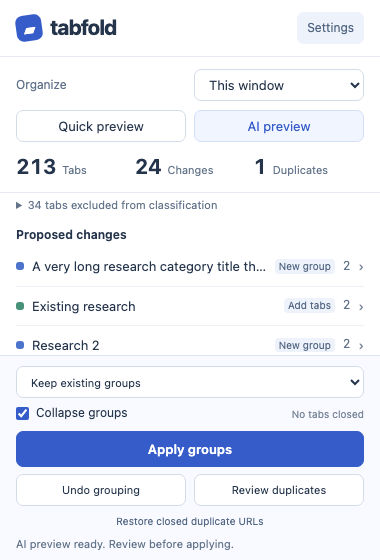
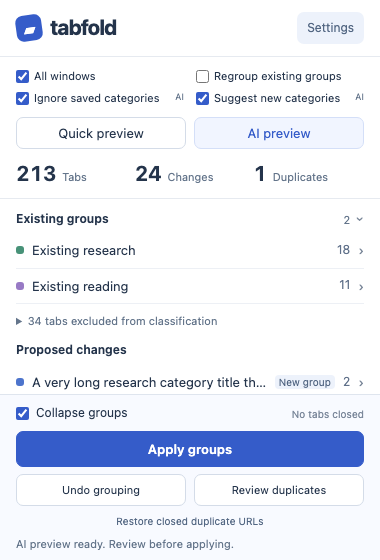
Expose popup checkboxes and independent AI category preferences

diff --git a/extension/popup.js b/extension/popup.js
@@ -3,7 +3,7 @@ import { t, initI18n, applyI18n } from './i18n.js';
 const $ = id => document.getElementById(id);
 let plan, suggestions = [], busy = false, undoAvailable = false;
 let provider = getProvider();
-let preferences = {suggestNew:true};
+let preferences = {suggestNew:true,ignoreCategories:false};
 const colors = {grey:'#8190a5',blue:'#4d74cc',red:'#cf6977',yellow:'#c09c39',green:'#479278',pink:'#c375a3',purple:'#987ac5',cyan:'#469dab',orange:'#ce8c52'};
 function status(message,error=false){$('status').textContent=message;$('status').classList.toggle('error',error);}
 async function send(message){const result=await chrome.runtime.sendMessage(message);if(!result?.ok)throw new Error(result?.error||t('No response. Reopen the extension.'));return result;}
@@ -27,7 +27,10 @@ function render(){
   const existing=plan.existingGroups||[];
   $('existingCount').textContent=existing.length;$('existingGroups').replaceChildren(...existing.map(group=>groupRow(group,true)));$('noExisting').hidden=!!existing.length;
   const regroup=plan.groupingMode==='regroup';
-  $('groupingMode').value=regroup?'regroup':'preserve';
+  $('regroup').checked=regroup;
+  preferences=plan.preferences||preferences;
+  $('ignoreCategories').checked=!!preferences.ignoreCategories;
+  $('suggestNew').checked=preferences.suggestNew!==false;
   $('groupingModeNotice').hidden=!regroup;
   $('groupingModeNotice').textContent=t(regroup?'Regroup mode: existing groups may be rebuilt.':'Keep existing groups');
   $('groupingModeNotice').classList.toggle('warning',regroup);
@@ -43,17 +46,25 @@ function renderSuggestions(){
   $('suggestionsSection').hidden=!suggestions.length;$('suggestionRows').replaceChildren();
   suggestions.forEach((suggestion,index)=>{const row=document.createElement('div');row.className='suggestion-row';const name=document.createElement('input');name.value=suggestion.title;name.maxLength=40;name.setAttribute('aria-label',t('Suggested category name'));const description=document.createElement('p');description.textContent=t('{count} matching tabs',{count:suggestion.tabIds.length});const button=document.createElement('button');button.textContent=t('Add category to preview');button.onclick=()=>run(async()=>{const result=await send({type:'acceptSuggestion',index,title:name.value,plan});plan=result.plan;suggestions=result.suggestions;render();status(t('Category added. Review and apply the groups.'));});row.append(name,description,tabList(suggestion.tabs||[]),button);$('suggestionRows').append(row);});
 }
-async function refresh(ai=false){const window=await chrome.windows.getCurrent();const result=await send({type:'preview',windowId:window.id,provider:provider.id,allWindows:$('scope').value==='all',ai,suggestNew:preferences.suggestNew});plan=result.plan;suggestions=result.suggestions||[];undoAvailable=result.undoAvailable;render();if(result.suggestionError)status(t('Groups are ready, but category suggestions failed.')+' '+result.suggestionError,true);return result;}
-$('groupingMode').onchange=()=>run(async()=>{
-  const previous=plan?.groupingMode || 'preserve';
-  try{await send({type:'setGroupingMode',groupingMode:$('groupingMode').value});}
-  catch(error){$('groupingMode').value=previous;throw error;}
-  plan=undefined;suggestions=[];controls();
-  status(t('Reading your tabs…'));await refresh();
-  status(t('Preview ready. Your tabs have not changed.'));
+async function refresh(ai=false){const window=await chrome.windows.getCurrent();const result=await send({type:'preview',windowId:window.id,provider:provider.id,allWindows:$('allWindows').checked,ai});plan=result.plan;suggestions=result.suggestions||[];undoAvailable=result.undoAvailable;render();if(result.suggestionError)status(t('Groups are ready, but category suggestions failed.')+' '+result.suggestionError,true);return result;}
+async function refreshAfterSetting(){
+  plan=undefined;suggestions=[];$('groups').replaceChildren();renderSuggestions();controls();
+  status(t('Reading your tabs…'));await refresh();status(t('Preview ready. Your tabs have not changed.'));
+}
+$('regroup').onchange=()=>run(async()=>{
+  const previous=plan?.groupingMode==='regroup';
+  try{await send({type:'setGroupingMode',groupingMode:$('regroup').checked?'regroup':'preserve'});}
+  catch(error){$('regroup').checked=previous;throw error;}
+  await refreshAfterSetting();
+});
+for(const key of ['ignoreCategories','suggestNew'])$(key).onchange=()=>run(async()=>{
+  const previous=preferences[key];
+  try{const result=await send({type:'setPreferences',preferences:{[key]:$(key).checked}});preferences=result.preferences;}
+  catch(error){$(key).checked=previous;throw error;}
+  await refreshAfterSetting();
 });
 $('settings').onclick=()=>chrome.runtime.openOptionsPage();
-$('refresh').onclick=()=>run(async()=>{status(t('Reading your tabs…'));await refresh();status(t('Preview ready. Your tabs have not changed.'));});$('scope').onchange=$('refresh').onclick;
+$('refresh').onclick=()=>run(async()=>{status(t('Reading your tabs…'));await refresh();status(t('Preview ready. Your tabs have not changed.'));});$('allWindows').onchange=()=>run(refreshAfterSetting);
 $('aiPreview').onclick=async()=>{if(busy)return;try{const granted=await chrome.permissions.request({origins:[provider.origin]});if(!granted){status(t('Allow {provider} access to use AI preview.',{provider:provider.name}),true);return;}await run(async()=>{status(t('AI is sorting your tabs…'));const result=await refresh(true);if(!result.suggestionError)status(t('AI preview ready. Review before applying.'));});}catch(error){status(error.message,true);}};
 $('apply').onclick=()=>run(async()=>{const result=await send({type:'apply',plan,collapse:$('collapse').checked});await refresh();status(result.message);});
 $('undo').onclick=()=>run(async()=>{const result=await send({type:'undo'});await refresh();status(result.message);});

diff --git a/extension/background.js b/extension/background.js
@@ -62,6 +62,7 @@ export class TabfoldBackend {
     const tabOrder=validateTabOrder(await this.read('tabfoldTabOrder','local'));
     const groupingMode=validateGroupingMode(await this.read('tabfoldGroupingMode','local'));
     const regroup=groupingMode==='regroup';
+    const preferences=await this.preferences();
     const initial = buildPreview(tabs, {...request,tabOrder,existingGroups,groupingMode});
     const selectedEligible = tabs.filter(tab => (request.allWindows || request.windowId === undefined || tab.windowId === request.windowId) && isEligible(tab,{regroup}));
     const provider = getProvider(request.provider ?? await this.provider());
@@ -70,7 +71,7 @@ export class TabfoldBackend {
     if (request.ai) {
       if (!key) return message(false, t('Save your API key before using AI classification.'));
       try {
-        classifications = await classifyTabs(selectedEligible, key, fetch, {provider:provider.id, categories: await this.categories(), existingGroups:regroup ? [] : initial.existingGroups, suggestNew: request.suggestNew !== false});
+        classifications = await classifyTabs(selectedEligible, key, fetch, {provider:provider.id, categories: await this.categories(), existingGroups:regroup ? [] : initial.existingGroups, suggestNew:preferences.suggestNew, ignoreCategories:preferences.ignoreCategories});
       } catch (error) {
         return message(false, error?.message || t('Unable to complete AI classification.'));
       }
@@ -81,9 +82,23 @@ export class TabfoldBackend {
       }
     }
     const plan = classifications ? buildPreview(tabs, {...request,tabOrder,existingGroups,groupingMode}, classifications) : initial;
+    plan.preferences=preferences;
     await this.write(PREVIEW_KEY, { plan, suggestions: classifications?.suggestions || [], tabs: tabs.filter(tab=>isEligible(tab,{regroup})).map(({id,title,url,windowId,index,lastAccessed,groupId})=>({id,title,url,windowId,index,lastAccessed,groupId})), categories: await this.categories() });
     const undo = await this.read(UNDO_KEY);
     return { ok: true, plan, undoAvailable: Boolean(undo?.groups?.length), keyConfigured: Boolean(key), suggestions: classifications?.suggestions || [], suggestionError: classifications?.suggestionError || '', otherCount: classifications?.otherCount || 0 };
+  }
+
+  async preferences() {
+    const saved=await this.read('tabfoldPreferences','local');
+    return {suggestNew:typeof saved?.suggestNew==='boolean' ? saved.suggestNew : true,ignoreCategories:typeof saved?.ignoreCategories==='boolean' ? saved.ignoreCategories : false};
+  }
+
+  async setPreferences(changes) {
+    if(!changes || typeof changes!=='object' || Array.isArray(changes) || Object.entries(changes).some(([key,value])=>!['suggestNew','ignoreCategories'].includes(key) || typeof value!=='boolean')) throw new Error(t('Invalid AI classification options.'));
+    const preferences={...await this.preferences(),...changes};
+    await this.write('tabfoldPreferences',preferences,'local');
+    await this.remove(PREVIEW_KEY);
+    return {ok:true,preferences};
   }
 
   async categories() {
@@ -190,7 +205,7 @@ export class TabfoldBackend {
 
   async matchesSavedPreview(plan) {
     const saved = await this.read(PREVIEW_KEY);
-    return Boolean(saved?.plan && stableJson(saved.plan) === stableJson(plan));
+    return Boolean(saved?.plan && stableJson(saved.plan) === stableJson(plan) && stableJson(plan.preferences) === stableJson(await this.preferences()));
   }
 
   async revalidateGroup(group, regroup = false) {
@@ -414,7 +429,8 @@ export class TabfoldBackend {
   async handle(request = {}) {
     try {
       await initI18n();
-      if (request.type === 'getSettings') { const provider=getProvider(await this.provider()); return { ok: true, provider:provider.id, groupingMode:validateGroupingMode(await this.read('tabfoldGroupingMode','local')), tabOrder:validateTabOrder(await this.read('tabfoldTabOrder','local')), keyConfigured:Boolean(await this.read(provider.keyName)), categories:await this.categories(), preferences:await this.read('tabfoldPreferences','local') || {suggestNew:true} }; }
+      if (request.type === 'getSettings') { const provider=getProvider(await this.provider()); return { ok: true, provider:provider.id, groupingMode:validateGroupingMode(await this.read('tabfoldGroupingMode','local')), tabOrder:validateTabOrder(await this.read('tabfoldTabOrder','local')), keyConfigured:Boolean(await this.read(provider.keyName)), categories:await this.categories(), preferences:await this.preferences() }; }
+      if(request.type==='setPreferences') return await this.mutate(()=>this.setPreferences(request.preferences));
       if(request.type==='setGroupingMode') return await this.mutate(async()=>{const groupingMode=validateGroupingMode(request.groupingMode);await this.write('tabfoldGroupingMode',groupingMode,'local');await this.remove(PREVIEW_KEY);return {ok:true,groupingMode};});
       if (request.type === 'setTabOrder') return await this.mutate(async()=>{const tabOrder=validateTabOrder(request.tabOrder);await this.write('tabfoldTabOrder',tabOrder,'local');await this.remove(PREVIEW_KEY);return {ok:true,tabOrder};});
       if (request.type === 'setProvider') return await this.mutate(() => this.setProvider(request.provider));

diff --git a/extension/popup.html b/extension/popup.html
@@ -2,8 +2,8 @@
 <html lang="en"><head><meta charset="utf-8"><meta name="viewport" content="width=device-width,initial-scale=1"><title>Tabfold</title><link rel="stylesheet" href="popup.css"></head>
 <body>
 <header><span class="brand"><span class="mark" aria-hidden="true">▰</span>tabfold</span><button id="settings" class="quiet" data-i18n="Settings">Settings</button></header>
-<section class="controls"><div class="scope-row"><label for="scope" data-i18n="Organize">Organize</label><select id="scope"><option value="current" data-i18n="This window">This window</option><option value="all" data-i18n="All windows">All windows</option></select></div><div class="preview-actions"><button id="refresh" data-i18n="Quick preview">Quick preview</button><button id="aiPreview" data-i18n="AI preview">AI preview</button></div></section>
+<section class="controls"><div class="quick-options"><label><input id="allWindows" type="checkbox"><span data-i18n="All windows">All windows</span></label><label><input id="regroup" type="checkbox"><span data-i18n="Regroup existing groups">Regroup existing groups</span></label><label data-i18n-title="Skip saved AI categories without deleting them." title="Skip saved AI categories without deleting them."><input id="ignoreCategories" type="checkbox"><span data-i18n="Ignore saved categories">Ignore saved categories</span><small>AI</small></label><label><input id="suggestNew" type="checkbox" checked><span data-i18n="Suggest new categories">Suggest new categories</span><small>AI</small></label></div><div class="preview-actions"><button id="refresh" data-i18n="Quick preview">Quick preview</button><button id="aiPreview" data-i18n="AI preview">AI preview</button></div></section>
 <section class="stats"><div><strong id="total">—</strong><span data-i18n="Tabs">Tabs</span></div><div><strong id="groupCount">—</strong><span data-i18n="Changes">Changes</span></div><div><strong id="duplicateCount">—</strong><span data-i18n="Duplicates">Duplicates</span></div></section>
 <main id="results"><details id="existingSection" class="existing-section" open><summary class="section-title"><h2 data-i18n="Existing groups">Existing groups</h2><span id="existingCount"></span></summary><div id="existingGroups"></div><p id="noExisting" data-i18n="No existing groups in this scope.">No existing groups in this scope.</p></details><details id="excluded"><summary id="excludedSummary"></summary><p id="groupedReason"></p><p id="otherProtectedReason"></p></details><div class="section-title"><h1 data-i18n="Proposed changes">Proposed changes</h1></div><div id="groups"></div><p id="empty" hidden data-i18n="No groups to create. Try AI preview or another window.">No groups to create. Try AI preview or another window.</p><section id="suggestionsSection" hidden><h2 data-i18n="Suggested categories">Suggested categories</h2><div id="suggestionRows"></div></section><section id="duplicateReview" hidden><h2 data-i18n="Review duplicates">Review duplicates</h2><p data-i18n="These tabs have identical addresses. Closing them loses unsaved edits.">These tabs have identical addresses. Closing them loses unsaved edits.</p><ul id="duplicateList"></ul><button id="dedupe" class="danger" data-i18n="Close these duplicates">Close these duplicates</button></section></main>
-<footer><select id="groupingMode" data-i18n-label="Grouping mode" aria-label="Grouping mode"><option value="preserve" data-i18n="Keep existing groups">Keep existing groups</option><option value="regroup" data-i18n="Regroup all eligible tabs">Regroup all eligible tabs</option></select><p id="groupingModeNotice" class="mode-notice" role="note"></p><label class="collapse"><input id="collapse" type="checkbox" checked><span data-i18n="Collapse groups">Collapse groups</span><span class="hint" data-i18n="No tabs closed">No tabs closed</span></label><button id="apply" class="primary" disabled data-i18n="Apply groups">Apply groups</button><div class="secondary"><button id="undo" disabled data-i18n="Undo grouping">Undo grouping</button><button id="duplicates" disabled data-i18n="Review duplicates">Review duplicates</button></div><button id="restore" class="quiet restore" data-i18n="Restore closed duplicate URLs">Restore closed duplicate URLs</button><p id="status" role="status" aria-live="polite" data-i18n="Reading your tabs…">Reading your tabs…</p></footer>
+<footer><p id="groupingModeNotice" class="mode-notice" role="note"></p><label class="collapse"><input id="collapse" type="checkbox" checked><span data-i18n="Collapse groups">Collapse groups</span><span class="hint" data-i18n="No tabs closed">No tabs closed</span></label><button id="apply" class="primary" disabled data-i18n="Apply groups">Apply groups</button><div class="secondary"><button id="undo" disabled data-i18n="Undo grouping">Undo grouping</button><button id="duplicates" disabled data-i18n="Review duplicates">Review duplicates</button></div><button id="restore" class="quiet restore" data-i18n="Restore closed duplicate URLs">Restore closed duplicate URLs</button><p id="status" role="status" aria-live="polite" data-i18n="Reading your tabs…">Reading your tabs…</p></footer>
 <script type="module" src="popup.js"></script></body></html>

diff --git a/tests/background.test.js b/tests/background.test.js
@@ -172,14 +172,14 @@ test('settings reports key presence without exposing credentials and preserves c
   const defaults = await backend.handle({type:'getSettings'});
   assert.equal(defaults.ok, true);
   assert.equal(defaults.keyConfigured, false);
-  assert.deepEqual(defaults.preferences, {suggestNew:true});
+  assert.deepEqual(defaults.preferences, {suggestNew:true,ignoreCategories:false});
   assert.equal(defaults.categories[0].title, 'Development');
   const categories = [{title:'내 논문', criteria:'Research papers', color:'green'}];
   await backend.handle({type:'setCategories', categories});
   await backend.handle({type:'setKey', key:'private-test-key'});
   await backend.write('tabfoldPreferences', {suggestNew:false}, 'local');
   const configured = await backend.handle({type:'getSettings'});
-  assert.deepEqual(configured, {ok:true, provider:'openrouter', groupingMode:'preserve', tabOrder:'current', keyConfigured:true, categories, preferences:{suggestNew:false}});
+  assert.deepEqual(configured, {ok:true, provider:'openrouter', groupingMode:'preserve', tabOrder:'current', keyConfigured:true, categories, preferences:{suggestNew:false,ignoreCategories:false}});
   assert.equal(JSON.stringify(configured).includes('private-test-key'), false);
 });
 
@@ -318,4 +318,25 @@ test('regroup undo does not recreate an original group the user removed around p
  assert.equal(chrome._tabs.get(1).groupId,destination);
  assert.equal(chrome._tabs.get(2).groupId,destination);
  assert.equal(chrome._tabs.get(3).groupId,-1);
+});
+
+test('preferences merge strict booleans, invalidate previews, and protect against late preview races',async()=>{
+ const {backend}=regroupFixture();
+ assert.deepEqual(await backend.preferences(),{suggestNew:true,ignoreCategories:false});
+ const previous=await backend.handle({type:'preview',suggestNew:false});assert.equal(previous.plan.preferences.suggestNew,true);
+ assert.equal((await backend.handle({type:'setPreferences',preferences:{ignoreCategories:true}})).ok,true);
+ assert.deepEqual(await backend.preferences(),{suggestNew:true,ignoreCategories:true});
+ assert.equal((await backend.handle({type:'apply',plan:previous.plan})).ok,false);
+ // A late request may rewrite its old plan after settings changed; matching the stored plan is insufficient.
+ await backend.write('tabfoldPreview',{plan:previous.plan});assert.equal(await backend.matchesSavedPreview(previous.plan),false);
+ await backend.handle({type:'setPreferences',preferences:{suggestNew:false}});assert.deepEqual(await backend.preferences(),{suggestNew:false,ignoreCategories:true});
+ for(const preferences of [{ignoreCategories:1},{unknown:true},[],null]) assert.equal((await backend.handle({type:'setPreferences',preferences})).ok,false);
+});
+
+test('AI preview uses saved preferences and keeps saved categories untouched',async()=>{
+ const chrome=mockChrome([{id:1,windowId:1,title:'Atlas',url:'https://atlas.example/a'},{id:2,windowId:1,title:'Atlas',url:'https://atlas.example/b'}]);
+ const backend=new TabfoldBackend(chrome);const before=await backend.categories();
+ await backend.handle({type:'setKey',key:'test'});await backend.handle({type:'setPreferences',preferences:{ignoreCategories:true,suggestNew:false}});
+ const originalFetch=globalThis.fetch;let calls=0;globalThis.fetch=async()=>{calls++;throw new Error('unexpected network call');};
+ try {const result=await backend.handle({type:'preview',ai:true,suggestNew:true});assert.equal(result.ok,true);assert.equal(calls,0);assert.deepEqual(result.plan.preferences,{ignoreCategories:true,suggestNew:false});assert.deepEqual(await backend.categories(),before);}finally{globalThis.fetch=originalFetch;}
 });

diff --git a/tests/ai.test.js b/tests/ai.test.js
@@ -220,3 +220,23 @@ test('existing groups are primary window-scoped choices with safe representative
   assert.equal(result.get(1).targetGroupId,113);assert.equal(result.get(1).title,existingGroups[13].title);assert.equal(result.get(2).targetGroupId,200);
   assert.doesNotMatch(JSON.stringify(requests),/password|secret=yes|private.example|chrome:\/\/settings/);
 });
+
+test('ignoring saved categories keeps existing choices and skips a pointless Other-only request',async()=>{
+ const input=[{id:1,windowId:1,title:'Atlas migration guide',url:'https://atlas.example/a'},{id:2,windowId:1,title:'Atlas migration guide',url:'https://atlas.example/b'}];
+ const categories=[{title:'Saved category',criteria:'Saved criteria',color:'red'}];
+ let calls=0;
+ const noRequests=async()=>{calls++;throw new Error('unexpected request');};
+ const fallback=await classifyTabs(input,'key',noRequests,{categories,ignoreCategories:true,suggestNew:false});
+ assert.equal(calls,0);assert.equal(fallback.get(1).title,'atlas.example');assert.equal(fallback.otherCount,2);assert.deepEqual(fallback.suggestions,[]);
+ const suggested=await classifyTabs(input,'key',async(_url,options)=>{
+  calls++;const body=JSON.parse(options.body);const choices=Object.keys(body.questions.tab_1.criteria);assert.deepEqual(choices,['candidate_0','other']);
+  return response(Object.fromEntries(input.map(tab=>[`tab_${tab.id}`,{type:'choice',choice:'candidate_0',confidence:.95}])));
+ },{categories,ignoreCategories:true,suggestNew:true});
+ assert.equal(calls,1);assert.equal(suggested.suggestions.length,1);
+ const existing=await classifyTabs(input,'key',async(_url,options)=>{
+  const body=JSON.parse(options.body);assert.deepEqual(Object.keys(body.questions.tab_1.criteria),['group_10','other']);assert.doesNotMatch(options.body,/Saved category|Saved criteria/);
+  return response(Object.fromEntries(input.map(tab=>[`tab_${tab.id}`,{type:'choice',choice:'group_10',confidence:.95}])));
+ },{categories,ignoreCategories:true,existingGroups:[{id:10,windowId:1,title:'Existing',color:'green',tabs:[]}]});
+ assert.equal(existing.get(1).targetGroupId,10);assert.equal(categories[0].title,'Saved category');
+ await assert.rejects(classifyTabs(input,'key',noRequests,{ignoreCategories:'yes'}),/Invalid AI classification options/);
+});

diff --git a/extension/popup.css b/extension/popup.css
@@ -3,4 +3,4 @@
 .existing-section>.section-title{cursor:pointer;list-style:none;padding-bottom:5px}.existing-section>.section-title::-webkit-details-marker{display:none}.existing-section>.section-title:after{content:'›';color:#7a8799}.existing-section[open]>.section-title:after{transform:rotate(90deg)}#existingCount{margin-left:auto;color:#64758b;font-size:11px}.group-action{flex:none;font-size:10px;color:#536783;background:#edf2fb;border-radius:4px;padding:1px 4px;max-width:105px;white-space:normal;line-height:1.25}.group-title{flex:1}.group .count{margin-left:0}#excluded{font-size:11px;color:#64758b;padding:9px 0 3px}#excluded summary{cursor:pointer;line-height:1.4}#excluded p{font-size:11px;margin:5px 0;padding-left:12px}#noExisting{font-size:11px}#existingGroups .group summary{padding:8px 0}@media(prefers-color-scheme:dark){#excluded,#existingCount{color:#b4c2d6}.group-action{background:#2b3d58;color:#c3d3ed}}
 .mode-notice{font-size:10px;line-height:1.3;color:#60718a;margin:0 0 7px}.mode-notice.warning{color:#835515;border-left:3px solid #c48a2b;padding-left:7px}@media(prefers-color-scheme:dark){.mode-notice{color:#b4c2d6}.mode-notice.warning{color:#f0c37b;border-color:#d9a652}}
 
-#groupingMode{width:100%;max-width:none;min-width:0;margin-bottom:7px;font-size:11px}
+.quick-options{display:grid;grid-template-columns:1fr 1fr;gap:8px 12px;margin-bottom:11px}.quick-options label{display:flex;align-items:flex-start;gap:5px;min-width:0;font-size:11px;line-height:1.3;cursor:pointer}.quick-options input{margin:1px 0 0;flex:none}.quick-options small{font-size:9px;line-height:1.4;color:#64758b;margin-left:auto}.quick-options label:has(#regroup:checked){color:#835515}@media(prefers-color-scheme:dark){.quick-options small{color:#b4c2d6}.quick-options label:has(#regroup:checked){color:#f0c37b}}

diff --git a/extension/ai.js b/extension/ai.js
@@ -46,7 +46,8 @@ export function validateCategories(value) {
 function categoryConfig(options) {
   if (!options || typeof options !== 'object' || Array.isArray(options)) throw error(t('Invalid AI classification options.'));
   const custom = Object.hasOwn(options, 'categories') && options.categories !== undefined;
-  const categories = custom ? validateCategories(options.categories) : DEFAULT_CATEGORIES;
+  if (options.ignoreCategories !== undefined && typeof options.ignoreCategories !== 'boolean') throw error(t('Invalid AI classification options.'));
+  const categories = options.ignoreCategories ? [] : custom ? validateCategories(options.categories) : DEFAULT_CATEGORIES;
   if (options.suggestNew !== undefined && typeof options.suggestNew !== 'boolean') throw error(t('Invalid suggestion option.'));
   return {
     categories: categories.map((category, index) => ({ ...category, id: custom ? `c${index}` : LEGACY_KEYS[index] })),
@@ -234,6 +235,10 @@ export async function classifyTabs(tabs, key, fetchImpl = fetch, options = {}) {
   let otherCount = 0;
   for (const [windowId, windowTabs] of windows) {
     const categories = [...existingCategories(existing,windowId), ...config.categories];
+    if (!categories.length) {
+      for (const tab of windowTabs) { fallback(tab,groups); otherCount++; if(config.suggestNew) strongTabs.push(tab); }
+      continue;
+    }
     const byId = new Map(categories.map(category => [category.id,category]));
     for (let index = 0; index < windowTabs.length; index += BATCH_SIZE) {
       const batch = windowTabs.slice(index, index + BATCH_SIZE);

diff --git a/extension/options.js b/extension/options.js
@@ -36,7 +36,7 @@ $('exportCategories').onclick=()=>run(async()=>{
 });
 $('addCategory').onclick=()=>addCategoryRow();
 $('resetCategories').onclick=()=>{renderCategories(DEFAULT_CATEGORIES);status(t('Defaults restored. Save to keep these changes.'));};
-$('saveCategories').onclick=()=>run(async()=>{const categories=readCategories();const result=await send({type:'setCategories',categories});await chrome.storage.local.set({tabfoldPreferences:{suggestNew:$('suggestNew').checked}});renderCategories(result.categories);status(t('Saved. Your next AI preview will use these settings.'));});
+$('saveCategories').onclick=()=>run(async()=>{const categories=readCategories();const result=await send({type:'setCategories',categories});await send({type:'setPreferences',preferences:{suggestNew:$('suggestNew').checked}});renderCategories(result.categories);status(t('Saved. Your next AI preview will use these settings.'));});
 $('saveKey').onclick=()=>run(async()=>{const key=$('apiKey').value.trim();await send({type:'setKey',key,provider:$('provider').value});$('apiKey').value='';keyState(!!key);status(t(key?'API key saved for this session.':'API key removed.'));});
 $('clearKey').onclick=()=>run(async()=>{await send({type:'setKey',key:'',provider:$('provider').value});$('apiKey').value='';keyState(false);status(t('API key removed.'));});
 function providerInfo(){const provider=getProvider($('provider').value);$('providerInfo').textContent=provider.name+' · '+provider.model;}

diff --git a/docs/PRIVACY.md b/docs/PRIVACY.md
@@ -10,7 +10,7 @@ OpenRouter 키와 TypeSafe 키는 별도로 보관하며 자동 대체하지 않
 
 전체 재분류 모드에서는 기존 그룹 이름·맥락을 AI에 제공하지 않습니다. 정리 가능한 기존 그룹 탭도 분류 대상으로 포함되므로 그 탭들의 제목·URL origin/path는 전송합니다. 고정·재생 중·시크릿·내부 페이지는 계속 제외합니다.
 
-사용자 카테고리 이름과 기준은 기기에 저장하고 AI 실행 시 분류 기준으로 전송합니다. 새 주제 제안을 켜면 기타로 분류된 탭의 같은 제목·주소 데이터와 추출한 후보를 추가 요청으로 보냅니다.
+사용자 카테고리 이름과 기준은 기기에 저장하고 AI 실행 시 분류 기준으로 전송합니다. 저장된 카테고리 무시를 켜면 저장된·기본 카테고리를 전송하지 않지만 저장 목록은 삭제하지 않습니다. 기존 Chrome 그룹 맥락 전송은 재분류 설정에 따라 별도로 결정됩니다. 새 주제 제안을 켜면 기타로 분류된 탭의 같은 제목·주소 데이터와 추출한 후보를 추가 요청으로 보냅니다.
 
 정리 미리보기와 그룹 되돌리기 정보는 세션에 저장합니다. 중복으로 닫은 URL은 복원을 위해 기기의 `storage.local`에 보관하고 성공적으로 복원한 항목은 제거합니다. 확장을 제거하면 확장 저장소도 삭제됩니다. 중복 복원은 마지막 정리만 대상으로 합니다.
 

diff --git a/readme/README.ja.md b/readme/README.ja.md
@@ -41,6 +41,8 @@ Chrome Manifest V3 · ローカル優先 · Jev 1.13 · 実行時の依存関係
 
 クイックプレビューは、タイトル・URL の語句に対する統計的な TF-IDF 重みとコサイン類似度をブラウザー内で計算します。言語をまたいだ意味の翻訳ではなく、語句の類似性を比較します。事前学習済みニューラルモデルや TensorFlow モデルではなく、依存関係、モデルのダウンロード、サーバーリクエストは不要です。再利用可能な JavaScript モジュールは Node.js でも動作します。
 
+ポップアップの**既存グループを再分類**、**保存済みカテゴリを無視**、**新しいカテゴリを提案**は個別に保存されます。カテゴリの無視は保存済み・既定の AI 選択肢を除外しますが、削除はしません。再分類を有効にしない限り、既存の Chrome グループは引き続き参照します。無視と再分類を両方有効にすると、ローカル抽出したトピックを Jev で検証して提案します。提案を無効にするとドメイン別に分類します。
+
 ## インストール
 
 1. このリポジトリをダウンロードまたはクローンします。
